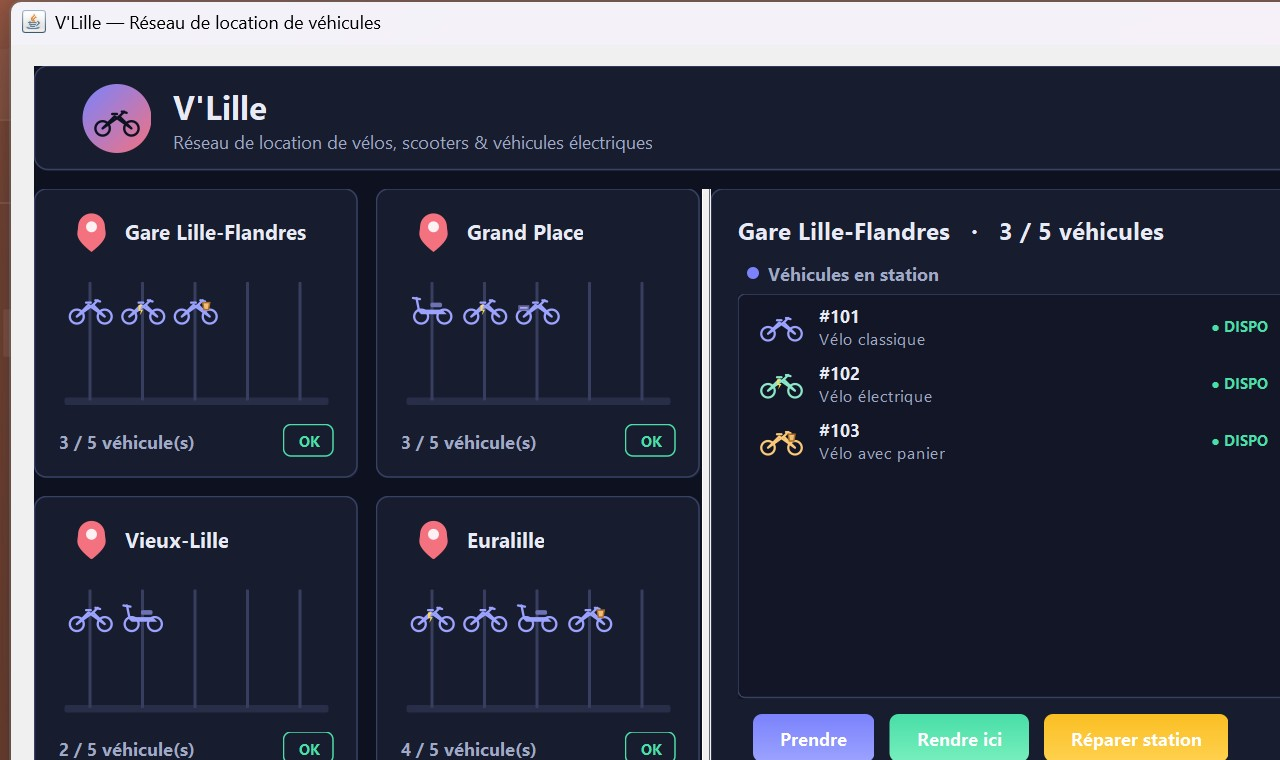
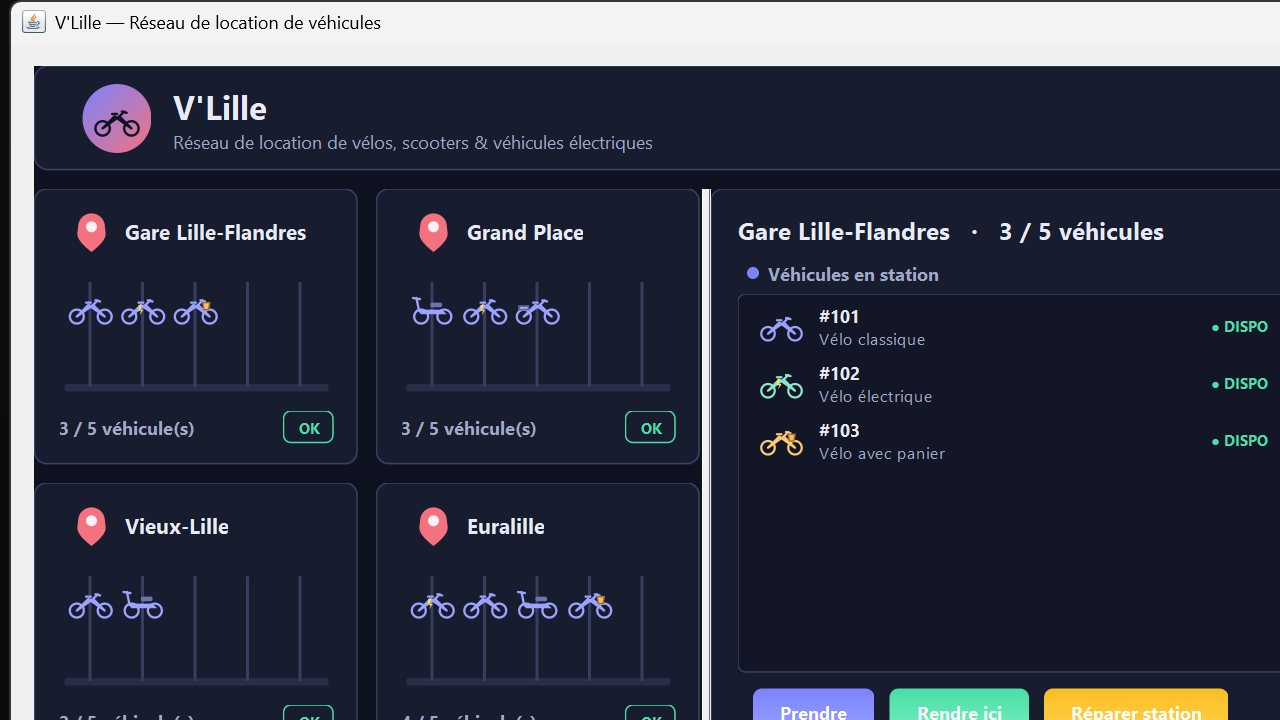
feat(portfolio): refresh des screenshots de tous les projets
Captures fraîches en 1280x720 obtenues via Chrome headless ou Win32 native :
- motel.jpg : page d'accueil Angular du South Motel
- hit-target.jpg : écran d'attract Hit the Target avec étoiles + UI gauche
- pong.jpg : écran d'attract Pong neon avec PRESS START
- boutique.jpg : catalogue React de la boutique de peluches
- pandemic.jpg : sortie terminal du jeu coopératif (infections rouges sur villes)
- vlille.jpg : recapture du GUI Swing V'Lille pour cohérence
- vote.jpg : Admin Hub temps réel du projet de vote (remplace vote.svg)

Note : gestion-etudiants conserve son SVG (Docker indisponible pour démarrer Mongo).

diff --git a/index.html b/index.html
@@ -51,7 +51,7 @@
             <h2 id="projects-heading" data-i18n="projects.heading" class="text-2xl md:text-3xl font-bold col-span-full mb-8 text-center" style="font-family: 'Press Start 2P', monospace; color: #39FF14; text-shadow: 0 0 10px rgba(57,255,20,0.4), 0 0 20px rgba(57,255,20,0.2), 0 0 30px rgba(255,45,149,0.1);">Quelques projets</h2>
             </h2>
             <div class="card arcade-card hover:shadow-lg transition duration-300 ease-in-out">
-                <img id="myImg" src="./images/acceuil.png" alt="Motel reservation Website"
+                <img id="myImg" src="./images/motel.jpg" alt="Motel reservation Website"
                     class="w-full h-48 object-cover">
                 <div class="m-4">
                     <span id="project1-type" data-i18n="project1.type" class="font-bold text-indigo-600 text-sm uppercase">Site responsive</span>
@@ -63,7 +63,7 @@
                 </div>
             </div>
             <div class="card arcade-card hover:shadow-lg transition duration-300 ease-in-out">
-                <img id="myImg" src="./images/bird game on.jpg" alt="Hit the target" class="w-full h-48 object-cover">
+                <img id="myImg" src="./images/hit-target.jpg" alt="Hit the target" class="w-full h-48 object-cover">
                 <div class="m-4">
                     <span id="project2-type" data-i18n="project2.type" class="font-bold text-indigo-600 text-sm uppercase">Mini-jeu</span>
                     <h3 id="project2-title" data-i18n="project2.title" class="font-bold text-white text-xl mt-2">Frapper la cible</h3>
@@ -74,7 +74,7 @@
                 </div>
             </div>
             <div class="card arcade-card hover:shadow-lg transition duration-300 ease-in-out">
-                <img id="myImg" src="./images/pong on.jpg" alt="Ping Pong" class="w-full h-48 object-cover">
+                <img id="myImg" src="./images/pong.jpg" alt="Ping Pong" class="w-full h-48 object-cover">
                 <div class="m-4">
                     <span id="project3-type" data-i18n="project3.type" class="font-bold text-indigo-600 text-sm uppercase">Mini-jeu</span>
                     <h3 id="project3-title" data-i18n="project3.title" class="font-bold text-white text-xl mt-2">Ping Pong</h3>
@@ -97,7 +97,7 @@
                 </div>
             </div>
             <div class="card arcade-card hover:shadow-lg transition duration-300 ease-in-out">
-                <img id="myImg" src="./images/pndmc.jpg" alt="Pandemic game" class="w-full h-48 object-cover">
+                <img id="myImg" src="./images/pandemic.jpg" alt="Pandemic game" class="w-full h-48 object-cover">
                 <div class="m-4">
                     <span id="project5-type" data-i18n="project5.type" class="font-bold text-indigo-600 text-sm uppercase">Jeu de stratégie</span>
                     <h3 id="project5-title" data-i18n="project5.title" class="font-bold text-white text-xl mt-2">Jeu de Pandémie</h3>
@@ -130,7 +130,7 @@
                 </div>
             </div>
             <div class="card arcade-card hover:shadow-lg transition duration-300 ease-in-out">
-                <img id="myImg" src="./images/vote.svg" alt="Vote en temps réel" class="w-full h-48 object-cover">
+                <img id="myImg" src="./images/vote.jpg" alt="Vote en temps réel" class="w-full h-48 object-cover">
                 <div class="m-4">
                     <span id="project8-type" data-i18n="project8.type" class="font-bold text-indigo-600 text-sm uppercase">Node · Socket.IO</span>
                     <h3 id="project8-title" data-i18n="project8.title" class="font-bold text-white text-xl mt-2">Vote en temps réel</h3>